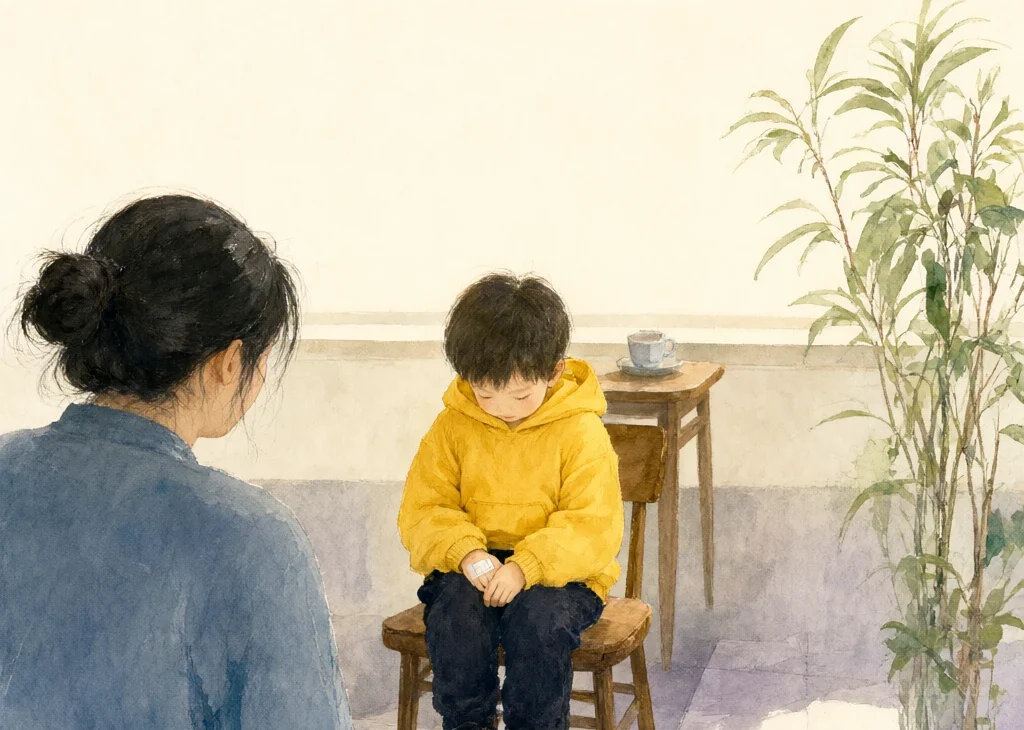
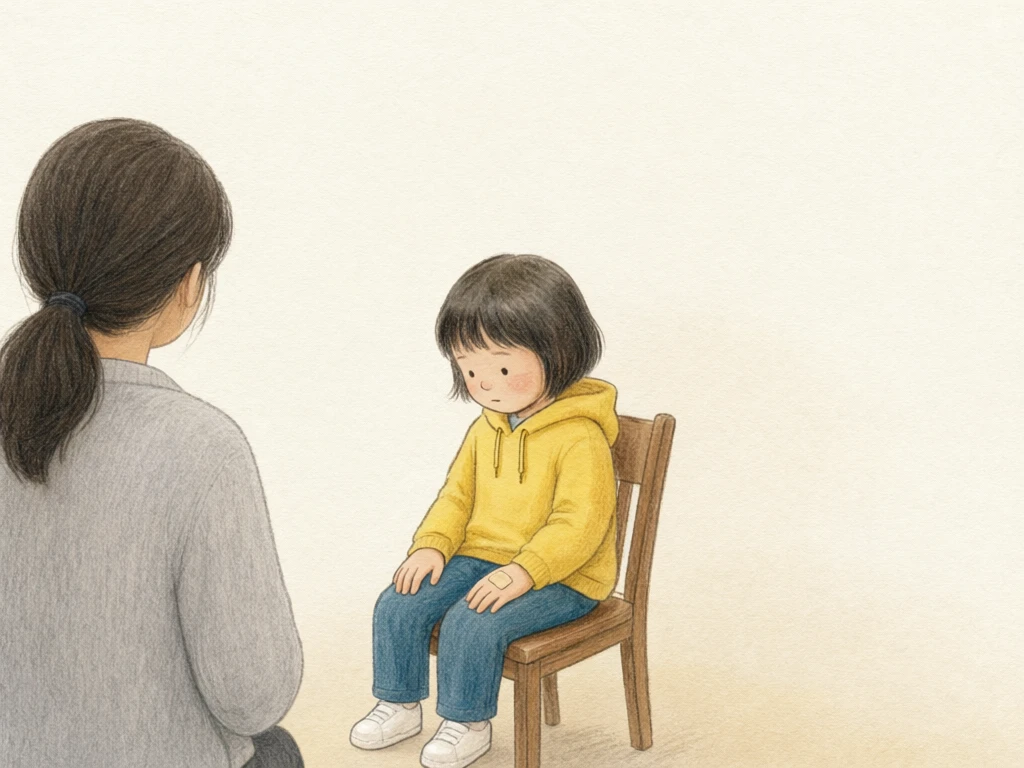
fix: 路由忽略 query（支持 ?p= 跳页）；demo 遮罩调淡；补 tools/shot.html 截图工装

diff --git a/src/app.js b/src/app.js
@@ -110,7 +110,7 @@ function varsSummary(scene, vars) {
 
 // ---------------- 路由 ----------------
 function currentRoute() {
-  const raw = location.hash.replace(/^#\/?/, "");
+  const raw = location.hash.replace(/^#\/?/, "").split("?")[0];
   const [name, arg] = raw.split("/");
   return { name: name || "list", arg };
 }
@@ -306,6 +306,13 @@ function viewReader(sceneId) {
   }
   const scene = app.scenes[story.sceneId];
   setTopbar(scene.name, { back: `#/custom/${story.sceneId}` });
+
+  // 支持 #/read/kindergarten?p=4 直接翻到某页（截图、答辩跳页用）
+  const pm = location.hash.match(/[?&]p=(\d+)/);
+  if (pm) {
+    const n = parseInt(pm[1], 10) - 1;
+    app.index = Math.min(Math.max(0, n), story.pages.length - 1);
+  }
 
   const wrap = h(`<div></div>`);
   const title = h(`<p class="reader-title">${esc(story.title)}<small>${esc(varsSummary(scene, story.vars))}</small></p>`);

diff --git a/tools/shot.html b/tools/shot.html
@@ -1,0 +1,21 @@
+<!DOCTYPE html>
+<html lang="zh-CN">
+<head>
+<meta charset="utf-8">
+<title>截图工装 · 390px 手机视口</title>
+<style>
+  html, body { margin: 0; padding: 0; background: #dcd3c4; }
+  iframe { display: block; width: 390px; height: 820px; border: 0; background: #fff; }
+</style>
+</head>
+<body>
+<!-- 用法：chrome --headless=old --window-size=390,900 --screenshot=out.png "http://127.0.0.1:8000/tools/shot.html?h=/read/medication"
+     为什么不用 --window-size 直接截 index.html：新版 headless 会忽略 window-size，视口会变成 ~500px 宽。 -->
+<script>
+  const h = new URLSearchParams(location.search).get("h") || "/list";
+  const f = document.createElement("iframe");
+  f.src = "../index.html#" + h;
+  document.body.appendChild(f);
+</script>
+</body>
+</html>

diff --git a/src/style.css b/src/style.css
@@ -352,7 +352,7 @@ body { display: block; }
 .reminder {
   position: absolute;
   inset: 0;
-  background: rgba(58, 50, 38, 0.55);
+  background: rgba(58, 50, 38, 0.42);
   display: flex;
   align-items: center;
   justify-content: center;
